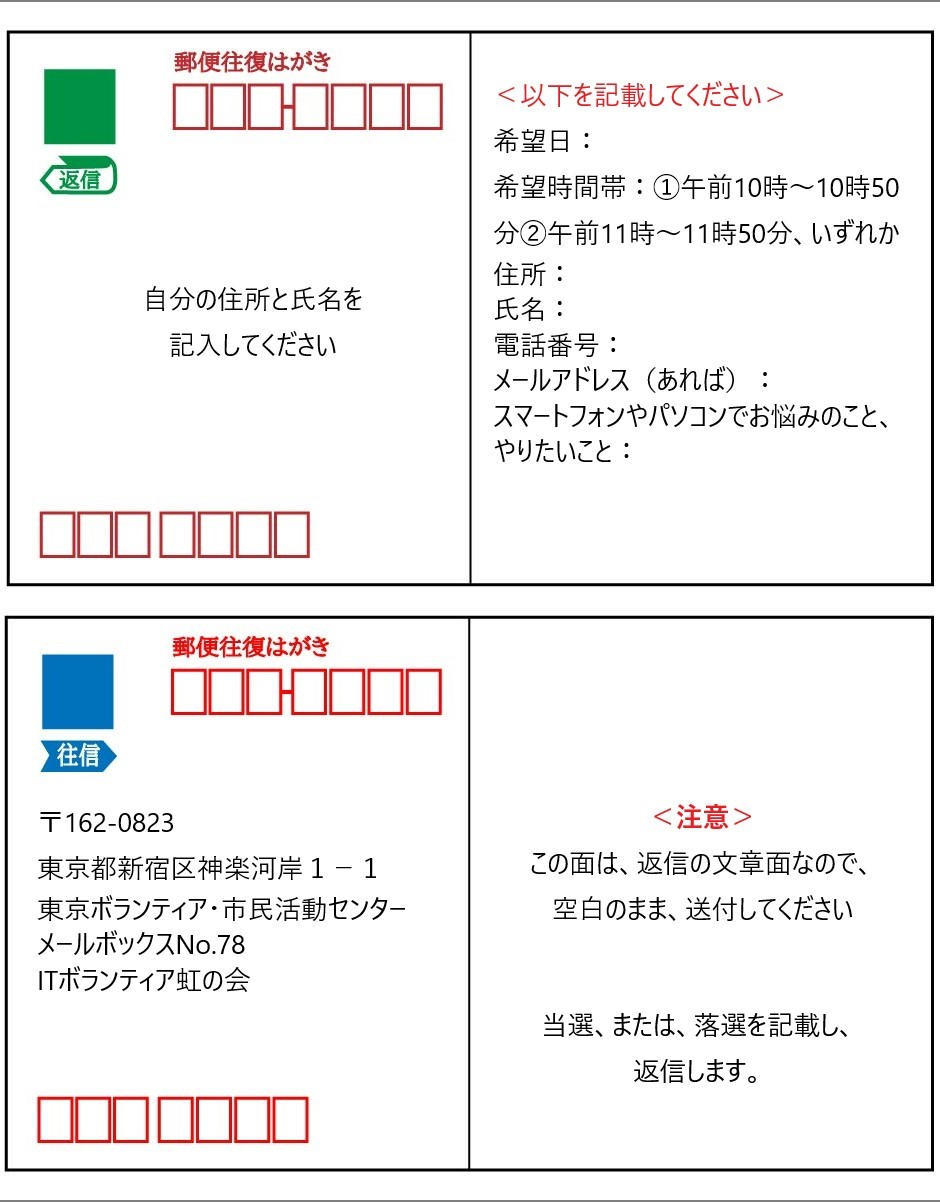
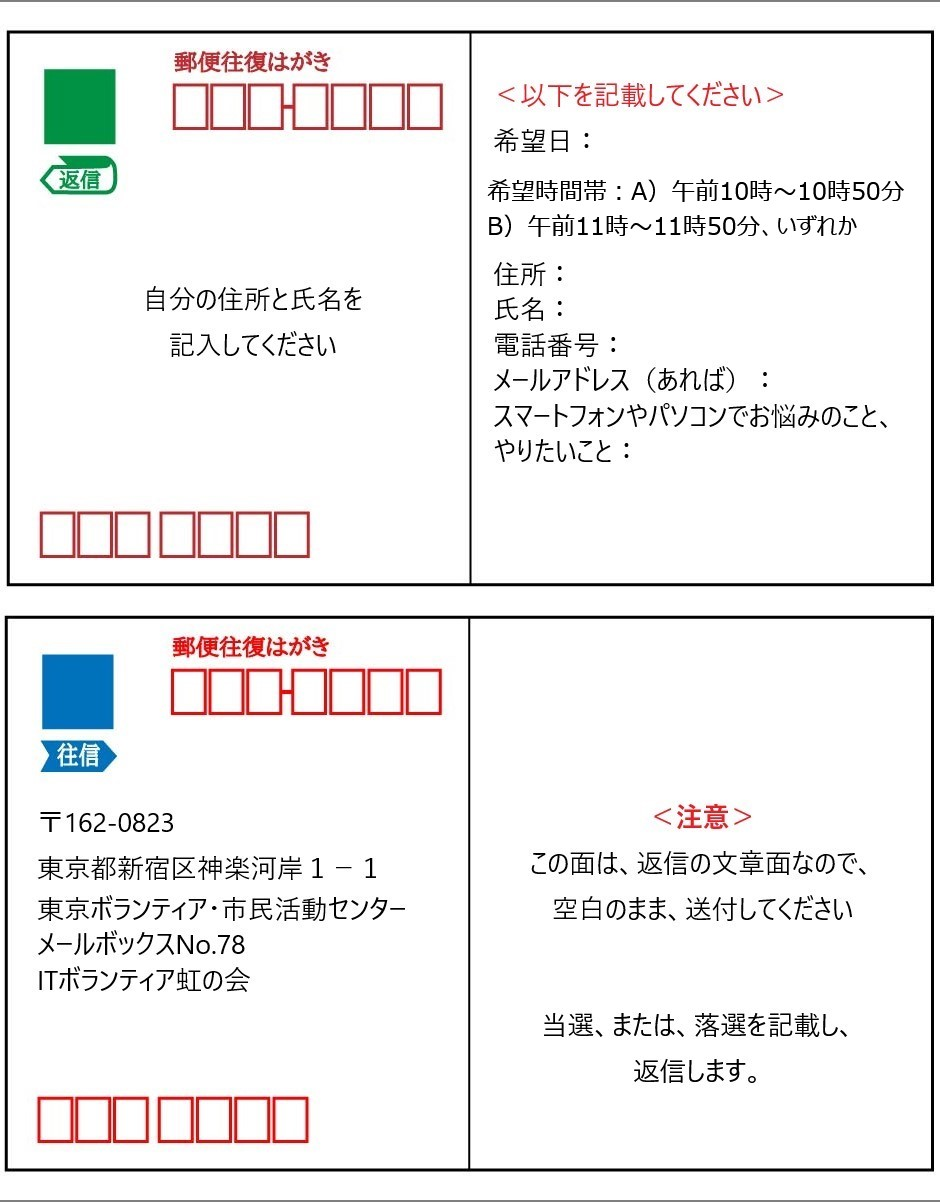
相談会下期

Changed region(s): [[0.5245, 0.1231, 0.9564, 0.2155]]

diff --git a/index.html b/index.html
@@ -148,32 +148,32 @@
               </thead>
               <tbody>
                 <tr>
-                  <td>4月8日（土）</td>
+                  <td>10月14日（土）</td>
                   <!-- <td rowspan="6" class="table-warning">①午前10時～10時50分<br> -->
-                  <td rowspan="6">①午前10時～10時50分<br>
-                    ②午前11時～11時50分<br>
-                    いずれか</td>
-                  <td>3月22日（水曜日）</td>
+                  <td rowspan="6">A）午前10時～10時50分<br>
+                    B）午前11時～11時50分<br>
+                    各回のいずれか<br>（1回50分）</td>
+                  <td>9月27日（水曜日）</td>
                 </tr>
                 <tr>
-                  <td>5月13日（土）</td>
-                  <td>4月26日（水曜日）</td>
+                  <td>11月11日（土）</td>
+                  <td>10月25日（水曜日）</td>
                 </tr>
                 <tr>
-                  <td>6月10日（土）</td>
-                  <td>5月24日（水曜日）</td>
+                  <td>12月9日（土）</td>
+                  <td>11月22日（水曜日）</td>
                 </tr>
                 <tr>
-                  <td>7月8日（土）</td>
-                  <td>6月21日（水曜日）</td>
+                  <td>1月13日（土）</td>
+                  <td>12月20日（水曜日）</td>
                 </tr>
                 <tr>
-                  <td>8月12日（土）</td>
-                  <td>7月26日（水曜日）</td>
+                  <td>2月10日（土）</td>
+                  <td>1月24日（水曜日）</td>
                 </tr>
                 <tr>
-                  <td>9月9日（土）</td>
-                  <td>8月23日（水曜日）</td>
+                  <td>3月9日（土）</td>
+                  <td>2月21日（水曜日）</td>
                 </tr>
               </tbody>
             </table>
@@ -184,23 +184,19 @@
               <tbody>
                 <tr>
                   <td>場所</td>
-                  <td>台東区生涯学習センター　※中央図書館の建物です</td>
-                </tr>
-                <tr>
-                  <td>使用機器</td>
-                  <td>お手持ちのスマホ・タブレット・パソコンなど</td>
+                  <td>台東区生涯学習センター　※中央図書館の建物です<br>
+                    4階　「はばたき21」男女平等推進プラザ</td>
                 </tr>
                 <tr>
                   <td>定員</td>
                   <td>各回６名程度</td>
                 </tr>
                 <tr>
-                  <td>内容等</td>
+                  <td>ご注意</td>
                   <td>
                     <ul>
-                      <li>相談は1回に50分以内で無料です。</li>
-                      <li>スマホ・ノートパソコン等ふだんご利用のものをなるべくお持ちいただくとより良いお答えが出来ると思います。</li>
-                      <li>内容によっては対応できかねる場合があります。</li>
+                      <li>お手持ちのスマホ・タブレット・パソコンなどをお持ちください</li>
+                      <li>費用は無料ですが、相談内容により対応できかねる場合があります。</li>
                     </ul>
                   </td>
                 </tr>
@@ -218,18 +214,14 @@
 
 
               <tbody>
-
-
                 <tr>
                   <td>
-
-
                     <ul>
                       <li>各開催日ごとに往復はがきか電子メールにて以下記載の上、申込みください。</li>
                       <li>申込内容：
                         <ol>
 
-                          <li>希望時間帯（開催日・①/②）/住所/氏名/電話番号/メールアドレス（あれば）</li>
+                          <li>希望時間帯（開催日・A or B）／住所／氏名／電話番号／メールアドレス（あれば）</li>
                           <li>スマートフォンやパソコンでお悩みのこと、やりたいこと</li>
                         </ol>
                       </li>
@@ -239,6 +231,7 @@
       　　　　　　　　　　　　東京ボランティア・市民活動センター　メールボックスNo.78<br>
       　　　　　　　　　　　　ITボランティア虹の会</li>
                           <li class="list-unstyled">メール：　　<a href="mailto:itniji@yahoo.co.jp" >itniji@yahoo.co.jp</a></li>
+                          <li>LINE公式アカウントからも申込可能です</li>
                         </ul>
                     </ul>
 
@@ -249,7 +242,7 @@
                     <h5>記入ひな形（往復はがきやメールの記入に利用してください）</h5>
                     <ul>
                       <li>希望日：</li>
-                      <li>希望時間帯：①午前10時～10時50分②午前11時～11時50分、いずれか</li>
+                      <li>希望時間帯：A）午前10時～10時50分　B）午前11時～11時50分、いずれか</li>
                       <li>住所：</li>
                       <li>氏名：</li>
                       <li>電話番号：</li>
@@ -315,6 +308,19 @@
       <div class="row row-cols-1 row-cols-md-3 g-4">
         <div class="col">
           <div class="card h-100">
+            <img src="images/soudan.png" class="card-img-top" alt="...">
+            <div class="card-body d-grid">
+              <h5 class="card-title">相談会</h5>
+              <p class="card-text">初心者向けスマートフォン・パソコン相談会（コロナ前も）（毎月/第2土曜）<br>：台東区生涯学習課　学習館</p>
+              <a href="images/soudan.png" target="_blank" class="btn btn-primary btn-lg d-flex align-items-center justify-content-center">画像を拡大</a>
+            </div>
+            <div class="card-footer">
+              <small class="text-muted"></small>
+            </div>
+          </div>
+        </div>
+        <div class="col">
+          <div class="card h-100">
             <img src="images/HighSchoolVolunteer.jpg" class="card-img-top" alt="...">
             <div class="card-body d-grid">
               <h5 class="card-title">シニア向けスマホよろず相談会～ボランティアが個別に伝えるスマホの使い方～　高校生ボランティア募集</h5>
@@ -335,19 +341,6 @@
               <p class="card-text">J:COMの「つながるNews」で放送された画面です。
                 初心者向けスマートフォン・パソコン相談会が紹介されました。<br>2023年6月15日放送</p>
               <a href="images/JCOM.png" target="_blank" class="btn btn-primary btn-lg d-flex align-items-center justify-content-center">画像を拡大</a>
-            </div>
-            <div class="card-footer">
-              <small class="text-muted"></small>
-            </div>
-          </div>
-        </div>
-        <div class="col">
-          <div class="card h-100">
-            <img src="images/soudan.png" class="card-img-top" alt="...">
-            <div class="card-body d-grid">
-              <h5 class="card-title">相談会</h5>
-              <p class="card-text">初心者向けスマートフォン・パソコン相談会（コロナ前も）（毎月/第2土曜）<br>：台東区生涯学習課　学習館</p>
-              <a href="images/soudan.png" target="_blank" class="btn btn-primary btn-lg d-flex align-items-center justify-content-center">画像を拡大</a>
             </div>
             <div class="card-footer">
               <small class="text-muted"></small>
